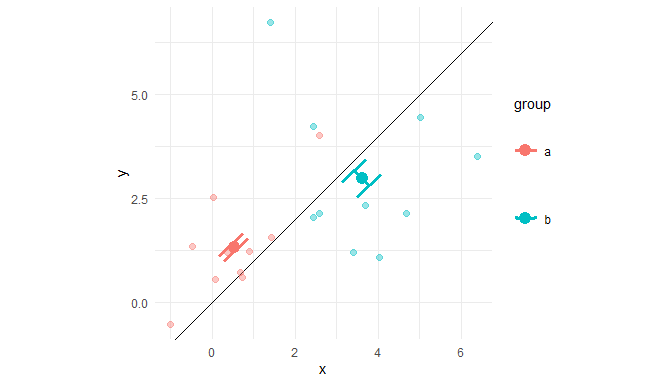
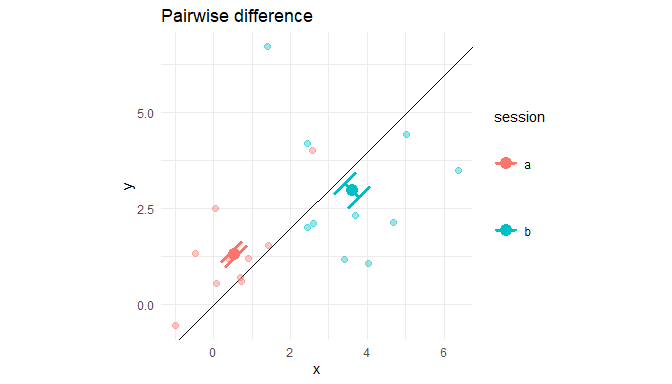
README update and code comment
Fixed typo installation instruction. Renamed a variable in example code. Additionally, I added a comment in the GeomErrorbarD about coordinate transformation.

diff --git a/README.md b/README.md
@@ -18,7 +18,7 @@ like this:
 
 ``` r
 # install.packages("devtools")
-devtools::install_github("lmwidmayer/errorbard")
+devtools::install_github("lmwidmayer/ggerrorbard")
 ```
 
 ## Example
@@ -36,19 +36,19 @@ dat <- data.frame(x = c(rnorm(10, m = 1, sd = 1),
                         rnorm(10, m = 4, sd = 2)), 
                   y = c(rnorm(10, m = 1, sd = 1.5),
                         rnorm(10, m = 3, sd = 1.8)),
-                  group = c(rep(letters[1:2], each = 10)))
+                  session = c(rep(letters[1:2], each = 10)))
 dat$d <- with(dat, y - x)
 
 # summary of data
-m <- aggregate(cbind(x, y) ~ group, 
+m <- aggregate(cbind(x, y) ~ session, 
                data = dat, 
                mean)
-m$sd <- aggregate(d ~ group, 
+m$sd <- aggregate(d ~ session, 
                   data = dat, 
-                  sd)[, 2] / sqrt(aggregate(d ~ group, 
+                  sd)[, 2] / sqrt(aggregate(d ~ session, 
                                             data = dat, 
                                             length)[, 2])
-m$n <- aggregate(d ~ group, 
+m$n <- aggregate(d ~ session, 
                                             data = dat, 
                                             length)[, 2]
 m$se <- m$sd / sqrt(m$n)
@@ -56,19 +56,19 @@ m$se <- m$sd / sqrt(m$n)
 # plot
 ggplot(data = dat,
        mapping = aes(x = x, y = y,
-                     group = group,
-                     color = group)) +
+                     group = session,
+                     color = session)) +
   geom_abline(intercept = 0, slope = 1) +
   geom_point(alpha = 0.4, size = 2) +
   geom_point(data = m,
              mapping = aes(x = x, y = y,
-                           group = group,
-                           color = group),
+                           group = session,
+                           color = session),
              size = 4) +
   ggerrorbard::geom_errorbard(data = m,
                  mapping = aes(xcenter = x, ycenter = y, # center points of error bars
-                               group = group,
-                               color = group,
+                               group = session,
+                               color = session,
                                latitude = 2*se, # width of error bars
                                angle = -45), # angle of error bars
                  # arrows on ends of error bars
@@ -76,11 +76,17 @@ ggplot(data = dat,
                                ends = "both", 
                                length = unit(0.05, "npc")),
                  linewidth = 1.1) +
+  ggtitle("Pairwise difference") +
   coord_equal() +
   theme_minimal()
 ```
 
 <img src="man/figures/README-example-1.png" width="100%" />
+
+## Limitations
+
+- The error bars get distorted by transformations of the plotting
+  coordinate system, e.g. `coord(x = "log10", y = "log10")`
 
 <!--
 You'll still need to render `README.Rmd` regularly, to keep `README.md` up-to-date. `devtools::build_readme()` is handy for this.
